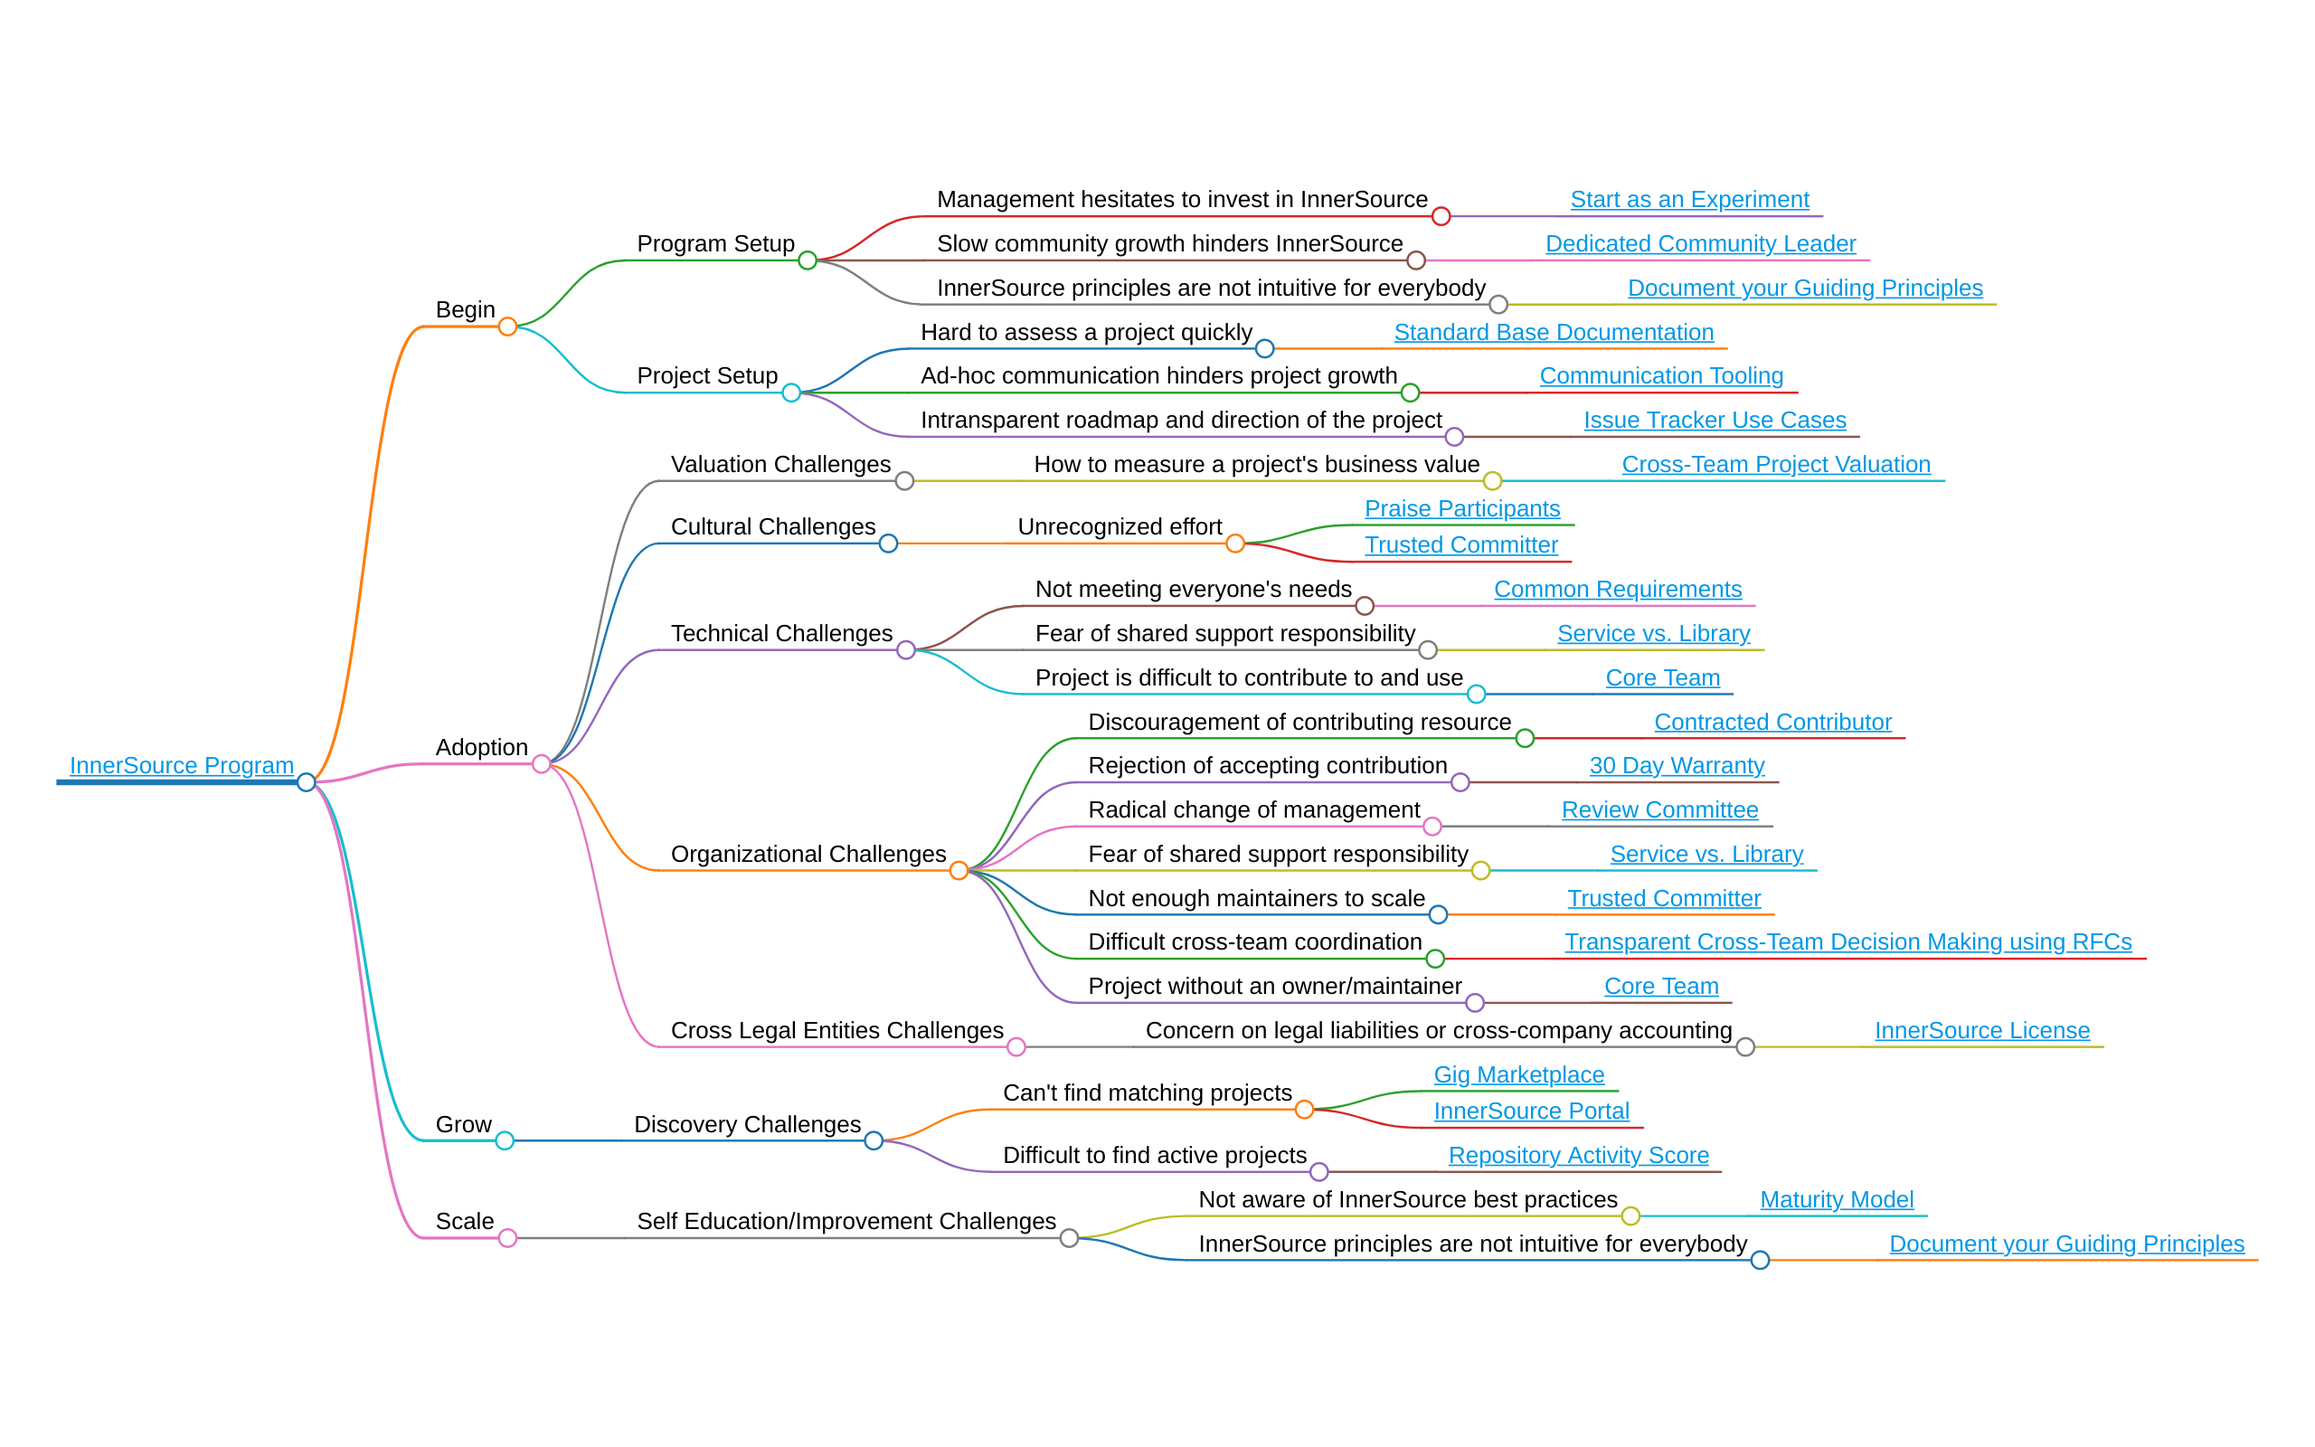
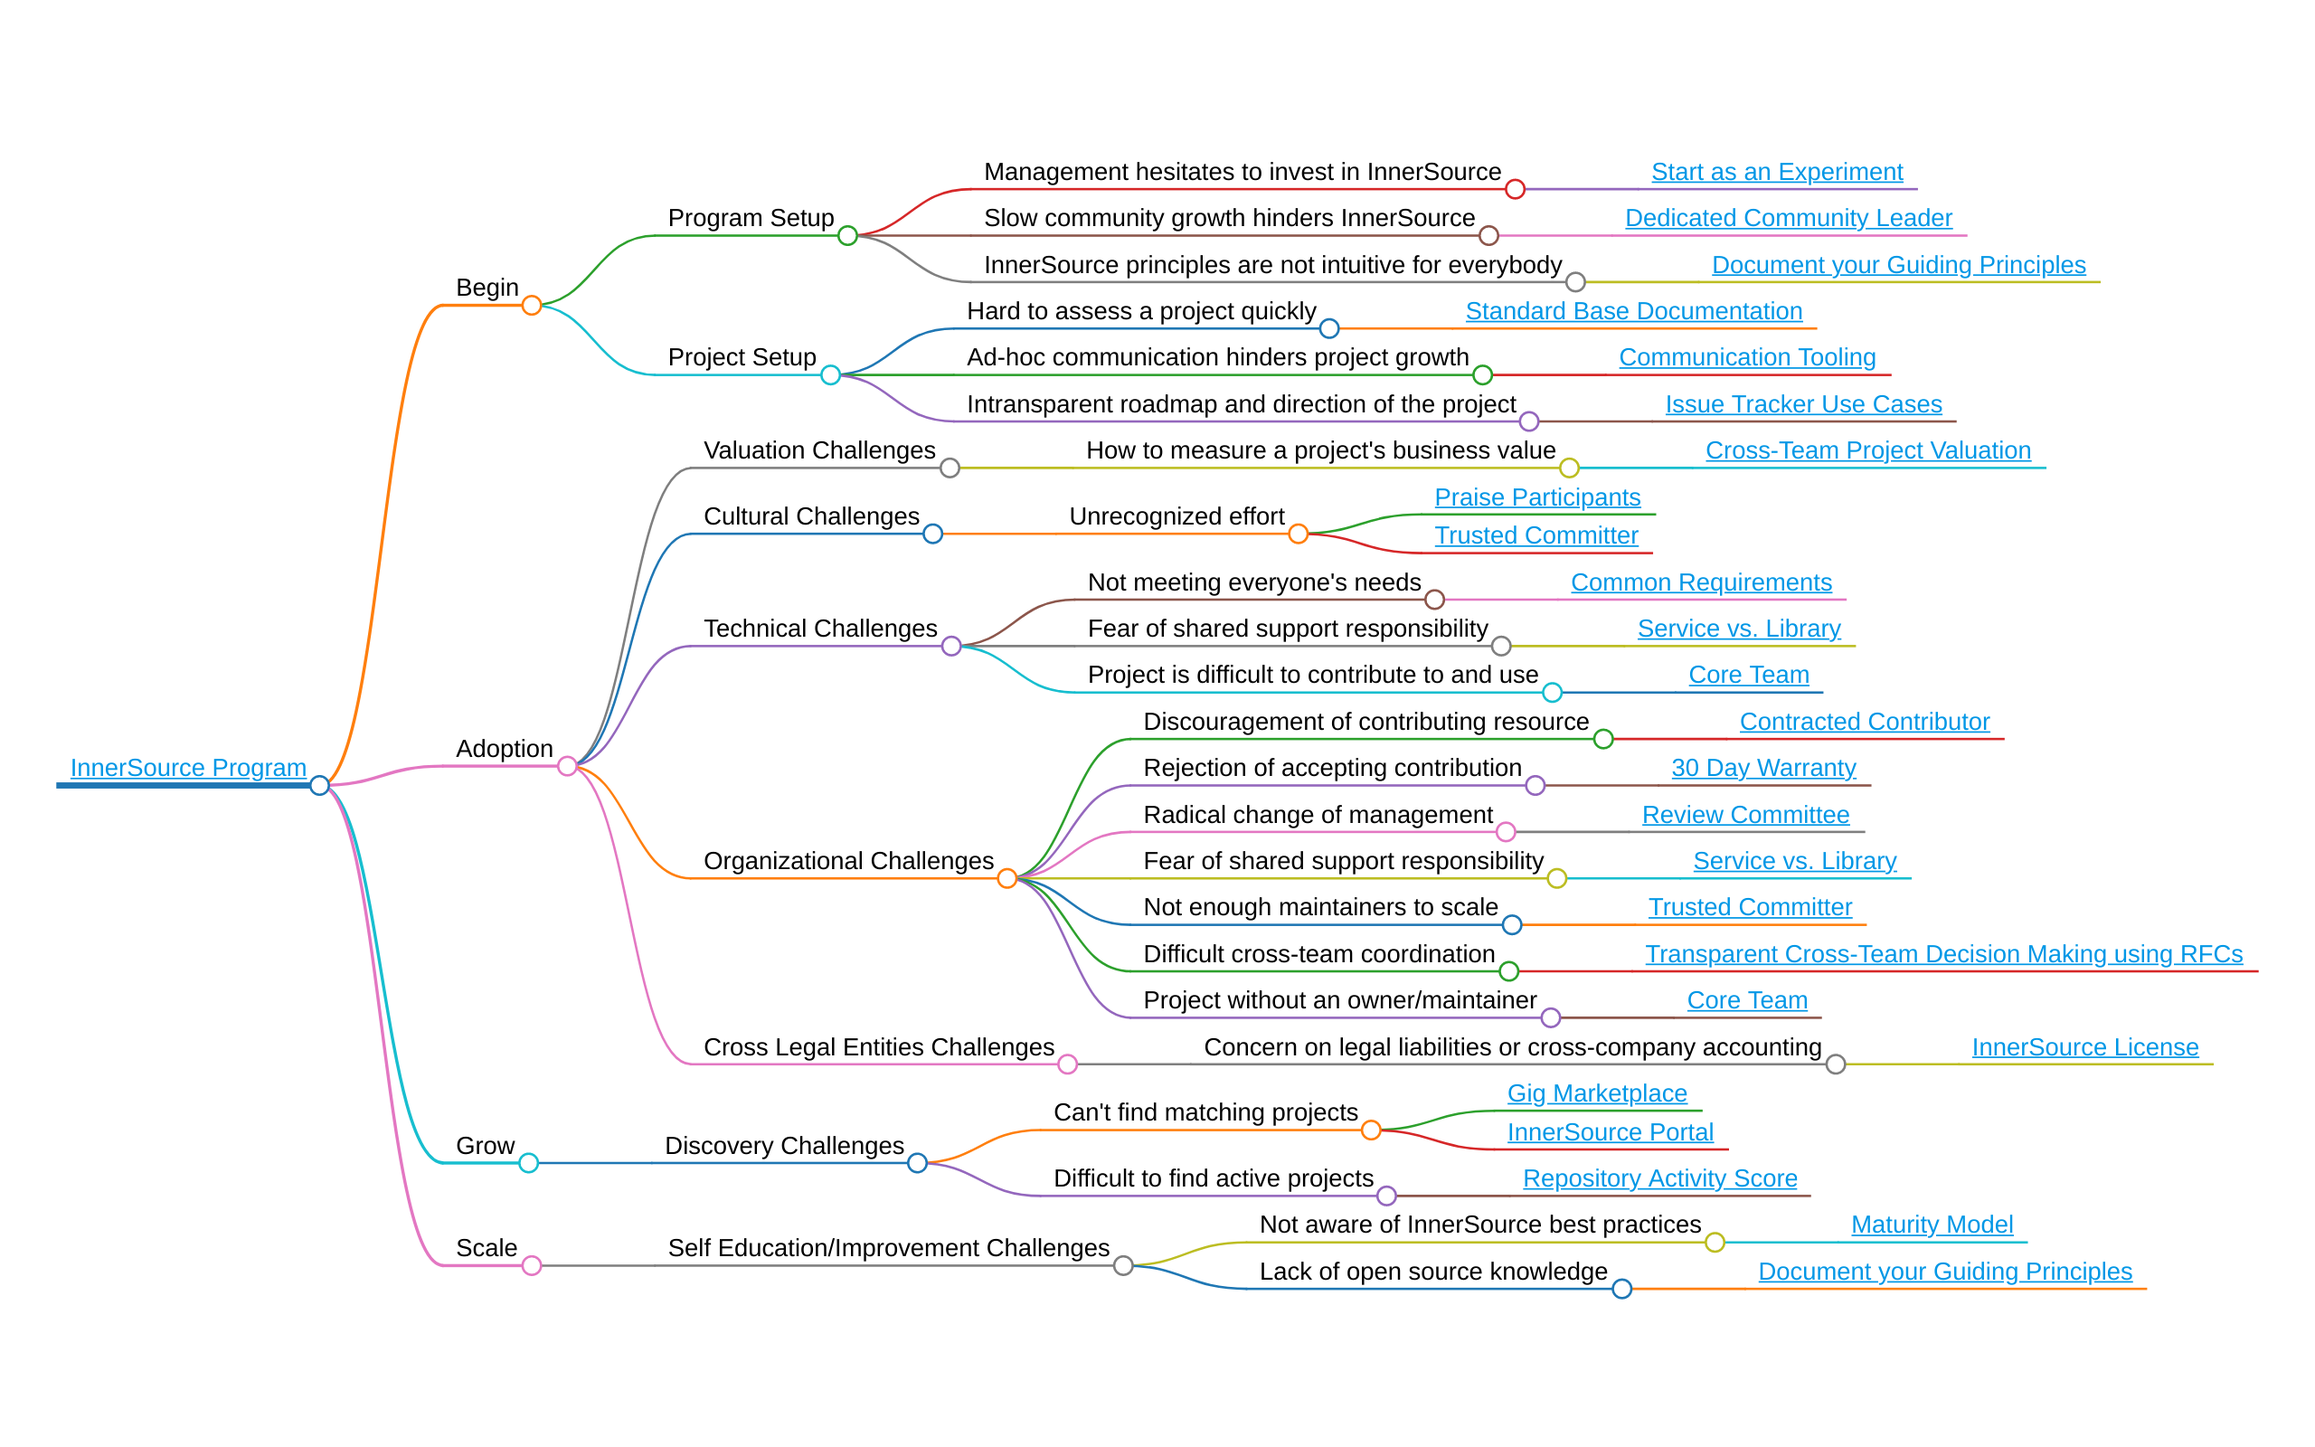
Re-creating markmap and screenshot

Changed region(s): [[0.1562, 0.0938, 0.9688, 0.9062], [0.0312, 0.5, 0.1562, 0.625], [0.1562, 0.1875, 0.25, 0.375]]

diff --git a/pattern-categorization/innersource-program-mind-map.html b/pattern-categorization/innersource-program-mind-map.html
@@ -25,6 +25,6 @@
           Markmap
         } = getMarkmap();
         window.mm = Markmap.create('svg#mindmap', getOptions == null ? void 0 : getOptions(), data);
-      })(() => window.markmap,null,{"t":"heading","d":1,"p":{"lines":[0,1]},"v":"<a href=\"https://patterns.innersourcecommons.org/toc\">InnerSource Program</a>","c":[{"t":"heading","d":2,"p":{"lines":[2,3]},"v":"Begin","c":[{"t":"heading","d":3,"p":{"lines":[4,5]},"v":"Program Setup","c":[{"t":"heading","d":4,"p":{"lines":[6,7]},"v":"Management hesitates to invest in InnerSource","c":[{"t":"heading","d":5,"p":{"lines":[8,9]},"v":"<a href=\"https://patterns.innersourcecommons.org/p/start-as-experiment\">Start as an Experiment</a>"}]},{"t":"heading","d":4,"p":{"lines":[10,11]},"v":"Slow community growth hinders InnerSource","c":[{"t":"heading","d":5,"p":{"lines":[12,13]},"v":"<a href=\"https://patterns.innersourcecommons.org/p/dedicated-community-leader\">Dedicated Community Leader</a>"}]},{"t":"heading","d":4,"p":{"lines":[14,15]},"v":"InnerSource principles are not intuitive for everybody","c":[{"t":"heading","d":5,"p":{"lines":[16,17]},"v":"<a href=\"https://patterns.innersourcecommons.org/p/document-your-guiding-principles\">Document your Guiding Principles</a>"}]}]},{"t":"heading","d":3,"p":{"lines":[18,19]},"v":"Project Setup","c":[{"t":"heading","d":4,"p":{"lines":[20,21]},"v":"Hard to assess a project quickly","c":[{"t":"heading","d":5,"p":{"lines":[22,23]},"v":"<a href=\"https://patterns.innersourcecommons.org/p/base-documentation\">Standard Base Documentation</a>"}]},{"t":"heading","d":4,"p":{"lines":[24,25]},"v":"Ad-hoc communication hinders project growth","c":[{"t":"heading","d":5,"p":{"lines":[26,27]},"v":"<a href=\"https://patterns.innersourcecommons.org/p/communication-tooling\">Communication Tooling</a>"}]},{"t":"heading","d":4,"p":{"lines":[28,29]},"v":"Intransparent roadmap and direction of the project","c":[{"t":"heading","d":5,"p":{"lines":[30,31]},"v":"<a href=\"https://patterns.innersourcecommons.org/p/issue-tracker\">Issue Tracker Use Cases</a>"}]}]}]},{"t":"heading","d":2,"p":{"lines":[32,33]},"v":"Adoption","c":[{"t":"heading","d":3,"p":{"lines":[34,35]},"v":"Valuation Challenges","c":[{"t":"heading","d":4,"p":{"lines":[36,37]},"v":"How to measure a project's business value","c":[{"t":"heading","d":5,"p":{"lines":[38,39]},"v":"<a href=\"https://patterns.innersourcecommons.org/p/crossteam-project-valuation\">Cross-Team Project Valuation</a>"}]}]},{"t":"heading","d":3,"p":{"lines":[40,41]},"v":"Cultural Challenges","c":[{"t":"heading","d":4,"p":{"lines":[42,43]},"v":"Unrecognized effort","c":[{"t":"heading","d":5,"p":{"lines":[44,45]},"v":"<a href=\"https://patterns.innersourcecommons.org/p/praise-participants\">Praise Participants</a>"},{"t":"heading","d":5,"p":{"lines":[46,47]},"v":"<a href=\"https://patterns.innersourcecommons.org/p/trusted-committer\">Trusted Committer</a>"}]}]},{"t":"heading","d":3,"p":{"lines":[48,49]},"v":"Technical Challenges","c":[{"t":"heading","d":4,"p":{"lines":[50,51]},"v":"Not meeting everyone's needs","c":[{"t":"heading","d":5,"p":{"lines":[52,53]},"v":"<a href=\"https://patterns.innersourcecommons.org/p/common-requirements\">Common Requirements</a>"}]},{"t":"heading","d":4,"p":{"lines":[54,55]},"v":"Fear of shared support responsibility","c":[{"t":"heading","d":5,"p":{"lines":[56,57]},"v":"<a href=\"https://patterns.innersourcecommons.org/p/service-vs-library\">Service vs. Library</a>"}]},{"t":"heading","d":4,"p":{"lines":[58,59]},"v":"Project is difficult to contribute to and use","c":[{"t":"heading","d":5,"p":{"lines":[60,61]},"v":"<a href=\"https://patterns.innersourcecommons.org/p/core-team\">Core Team</a>"}]}]},{"t":"heading","d":3,"p":{"lines":[62,63]},"v":"Organizational Challenges","c":[{"t":"heading","d":4,"p":{"lines":[64,65]},"v":"Discouragement of contributing resource","c":[{"t":"heading","d":5,"p":{"lines":[66,67]},"v":"<a href=\"https://patterns.innersourcecommons.org/p/contracted-contributor\">Contracted Contributor</a>"}]},{"t":"heading","d":4,"p":{"lines":[68,69]},"v":"Rejection of accepting contribution","c":[{"t":"heading","d":5,"p":{"lines":[70,71]},"v":"<a href=\"https://patterns.innersourcecommons.org/p/30-day-warranty\">30 Day Warranty</a>"}]},{"t":"heading","d":4,"p":{"lines":[72,73]},"v":"Radical change of management","c":[{"t":"heading","d":5,"p":{"lines":[74,75]},"v":"<a href=\"https://patterns.innersourcecommons.org/p/review-committee\">Review Committee</a>"}]},{"t":"heading","d":4,"p":{"lines":[76,77]},"v":"Fear of shared support responsibility","c":[{"t":"heading","d":5,"p":{"lines":[78,79]},"v":"<a href=\"https://patterns.innersourcecommons.org/p/service-vs-library\">Service vs. Library</a>"}]},{"t":"heading","d":4,"p":{"lines":[80,81]},"v":"Not enough maintainers to scale","c":[{"t":"heading","d":5,"p":{"lines":[82,83]},"v":"<a href=\"https://patterns.innersourcecommons.org/p/trusted-committer\">Trusted Committer</a>"}]},{"t":"heading","d":4,"p":{"lines":[84,85]},"v":"Difficult cross-team coordination","c":[{"t":"heading","d":5,"p":{"lines":[86,87]},"v":"<a href=\"https://patterns.innersourcecommons.org/p/transparent-cross-team-decision-making-using-rfcs\">Transparent Cross-Team Decision Making using RFCs</a>"}]},{"t":"heading","d":4,"p":{"lines":[88,89]},"v":"Project without an owner/maintainer","c":[{"t":"heading","d":5,"p":{"lines":[90,91]},"v":"<a href=\"https://patterns.innersourcecommons.org/p/core-team\">Core Team</a>"}]}]},{"t":"heading","d":3,"p":{"lines":[92,93]},"v":"Cross Legal Entities Challenges","c":[{"t":"heading","d":4,"p":{"lines":[94,95]},"v":"Concern on legal liabilities or cross-company accounting","c":[{"t":"heading","d":5,"p":{"lines":[96,97]},"v":"<a href=\"https://patterns.innersourcecommons.org/p/innersource-license\">InnerSource License</a>"}]}]}]},{"t":"heading","d":2,"p":{"lines":[98,99]},"v":"Grow","c":[{"t":"heading","d":3,"p":{"lines":[100,101]},"v":"Discovery Challenges","c":[{"t":"heading","d":4,"p":{"lines":[102,103]},"v":"Can't find matching projects","c":[{"t":"heading","d":5,"p":{"lines":[104,105]},"v":"<a href=\"https://patterns.innersourcecommons.org/p/gig-marketplace\">Gig Marketplace</a>"},{"t":"heading","d":5,"p":{"lines":[106,107]},"v":"<a href=\"https://patterns.innersourcecommons.org/p/innersource-portal\">InnerSource Portal</a>"}]},{"t":"heading","d":4,"p":{"lines":[108,109]},"v":"Difficult to find active projects","c":[{"t":"heading","d":5,"p":{"lines":[110,111]},"v":"<a href=\"https://patterns.innersourcecommons.org/p/repository-activity-score\">Repository Activity Score</a>"}]}]}]},{"t":"heading","d":2,"p":{"lines":[112,113]},"v":"Scale","c":[{"t":"heading","d":3,"p":{"lines":[114,115]},"v":"Self Education/Improvement Challenges","c":[{"t":"heading","d":4,"p":{"lines":[116,117]},"v":"Not aware of InnerSource best practices","c":[{"t":"heading","d":5,"p":{"lines":[118,119]},"v":"<a href=\"https://patterns.innersourcecommons.org/p/maturity-model\">Maturity Model</a>"}]},{"t":"heading","d":4,"p":{"lines":[120,121]},"v":"InnerSource principles are not intuitive for everybody","c":[{"t":"heading","d":5,"p":{"lines":[122,123]},"v":"<a href=\"https://patterns.innersourcecommons.org/p/document-your-guiding-principles\">Document your Guiding Principles</a>"}]}]}]}]})</script>
+      })(() => window.markmap,null,{"t":"heading","d":1,"p":{"lines":[0,1]},"v":"<a href=\"https://patterns.innersourcecommons.org/toc\">InnerSource Program</a>","c":[{"t":"heading","d":2,"p":{"lines":[2,3]},"v":"Begin","c":[{"t":"heading","d":3,"p":{"lines":[4,5]},"v":"Program Setup","c":[{"t":"heading","d":4,"p":{"lines":[6,7]},"v":"Management hesitates to invest in InnerSource","c":[{"t":"heading","d":5,"p":{"lines":[8,9]},"v":"<a href=\"https://patterns.innersourcecommons.org/p/start-as-experiment\">Start as an Experiment</a>"}]},{"t":"heading","d":4,"p":{"lines":[10,11]},"v":"Slow community growth hinders InnerSource","c":[{"t":"heading","d":5,"p":{"lines":[12,13]},"v":"<a href=\"https://patterns.innersourcecommons.org/p/dedicated-community-leader\">Dedicated Community Leader</a>"}]},{"t":"heading","d":4,"p":{"lines":[14,15]},"v":"InnerSource principles are not intuitive for everybody","c":[{"t":"heading","d":5,"p":{"lines":[16,17]},"v":"<a href=\"https://patterns.innersourcecommons.org/p/document-your-guiding-principles\">Document your Guiding Principles</a>"}]}]},{"t":"heading","d":3,"p":{"lines":[18,19]},"v":"Project Setup","c":[{"t":"heading","d":4,"p":{"lines":[20,21]},"v":"Hard to assess a project quickly","c":[{"t":"heading","d":5,"p":{"lines":[22,23]},"v":"<a href=\"https://patterns.innersourcecommons.org/p/base-documentation\">Standard Base Documentation</a>"}]},{"t":"heading","d":4,"p":{"lines":[24,25]},"v":"Ad-hoc communication hinders project growth","c":[{"t":"heading","d":5,"p":{"lines":[26,27]},"v":"<a href=\"https://patterns.innersourcecommons.org/p/communication-tooling\">Communication Tooling</a>"}]},{"t":"heading","d":4,"p":{"lines":[28,29]},"v":"Intransparent roadmap and direction of the project","c":[{"t":"heading","d":5,"p":{"lines":[30,31]},"v":"<a href=\"https://patterns.innersourcecommons.org/p/issue-tracker\">Issue Tracker Use Cases</a>"}]}]}]},{"t":"heading","d":2,"p":{"lines":[32,33]},"v":"Adoption","c":[{"t":"heading","d":3,"p":{"lines":[34,35]},"v":"Valuation Challenges","c":[{"t":"heading","d":4,"p":{"lines":[36,37]},"v":"How to measure a project's business value","c":[{"t":"heading","d":5,"p":{"lines":[38,39]},"v":"<a href=\"https://patterns.innersourcecommons.org/p/crossteam-project-valuation\">Cross-Team Project Valuation</a>"}]}]},{"t":"heading","d":3,"p":{"lines":[40,41]},"v":"Cultural Challenges","c":[{"t":"heading","d":4,"p":{"lines":[42,43]},"v":"Unrecognized effort","c":[{"t":"heading","d":5,"p":{"lines":[44,45]},"v":"<a href=\"https://patterns.innersourcecommons.org/p/praise-participants\">Praise Participants</a>"},{"t":"heading","d":5,"p":{"lines":[46,47]},"v":"<a href=\"https://patterns.innersourcecommons.org/p/trusted-committer\">Trusted Committer</a>"}]}]},{"t":"heading","d":3,"p":{"lines":[48,49]},"v":"Technical Challenges","c":[{"t":"heading","d":4,"p":{"lines":[50,51]},"v":"Not meeting everyone's needs","c":[{"t":"heading","d":5,"p":{"lines":[52,53]},"v":"<a href=\"https://patterns.innersourcecommons.org/p/common-requirements\">Common Requirements</a>"}]},{"t":"heading","d":4,"p":{"lines":[54,55]},"v":"Fear of shared support responsibility","c":[{"t":"heading","d":5,"p":{"lines":[56,57]},"v":"<a href=\"https://patterns.innersourcecommons.org/p/service-vs-library\">Service vs. Library</a>"}]},{"t":"heading","d":4,"p":{"lines":[58,59]},"v":"Project is difficult to contribute to and use","c":[{"t":"heading","d":5,"p":{"lines":[60,61]},"v":"<a href=\"https://patterns.innersourcecommons.org/p/core-team\">Core Team</a>"}]}]},{"t":"heading","d":3,"p":{"lines":[62,63]},"v":"Organizational Challenges","c":[{"t":"heading","d":4,"p":{"lines":[64,65]},"v":"Discouragement of contributing resource","c":[{"t":"heading","d":5,"p":{"lines":[66,67]},"v":"<a href=\"https://patterns.innersourcecommons.org/p/contracted-contributor\">Contracted Contributor</a>"}]},{"t":"heading","d":4,"p":{"lines":[68,69]},"v":"Rejection of accepting contribution","c":[{"t":"heading","d":5,"p":{"lines":[70,71]},"v":"<a href=\"https://patterns.innersourcecommons.org/p/30-day-warranty\">30 Day Warranty</a>"}]},{"t":"heading","d":4,"p":{"lines":[72,73]},"v":"Radical change of management","c":[{"t":"heading","d":5,"p":{"lines":[74,75]},"v":"<a href=\"https://patterns.innersourcecommons.org/p/review-committee\">Review Committee</a>"}]},{"t":"heading","d":4,"p":{"lines":[76,77]},"v":"Fear of shared support responsibility","c":[{"t":"heading","d":5,"p":{"lines":[78,79]},"v":"<a href=\"https://patterns.innersourcecommons.org/p/service-vs-library\">Service vs. Library</a>"}]},{"t":"heading","d":4,"p":{"lines":[80,81]},"v":"Not enough maintainers to scale","c":[{"t":"heading","d":5,"p":{"lines":[82,83]},"v":"<a href=\"https://patterns.innersourcecommons.org/p/trusted-committer\">Trusted Committer</a>"}]},{"t":"heading","d":4,"p":{"lines":[84,85]},"v":"Difficult cross-team coordination","c":[{"t":"heading","d":5,"p":{"lines":[86,87]},"v":"<a href=\"https://patterns.innersourcecommons.org/p/transparent-cross-team-decision-making-using-rfcs\">Transparent Cross-Team Decision Making using RFCs</a>"}]},{"t":"heading","d":4,"p":{"lines":[88,89]},"v":"Project without an owner/maintainer","c":[{"t":"heading","d":5,"p":{"lines":[90,91]},"v":"<a href=\"https://patterns.innersourcecommons.org/p/core-team\">Core Team</a>"}]}]},{"t":"heading","d":3,"p":{"lines":[92,93]},"v":"Cross Legal Entities Challenges","c":[{"t":"heading","d":4,"p":{"lines":[94,95]},"v":"Concern on legal liabilities or cross-company accounting","c":[{"t":"heading","d":5,"p":{"lines":[96,97]},"v":"<a href=\"https://patterns.innersourcecommons.org/p/innersource-license\">InnerSource License</a>"}]}]}]},{"t":"heading","d":2,"p":{"lines":[98,99]},"v":"Grow","c":[{"t":"heading","d":3,"p":{"lines":[100,101]},"v":"Discovery Challenges","c":[{"t":"heading","d":4,"p":{"lines":[102,103]},"v":"Can't find matching projects","c":[{"t":"heading","d":5,"p":{"lines":[104,105]},"v":"<a href=\"https://patterns.innersourcecommons.org/p/gig-marketplace\">Gig Marketplace</a>"},{"t":"heading","d":5,"p":{"lines":[106,107]},"v":"<a href=\"https://patterns.innersourcecommons.org/p/innersource-portal\">InnerSource Portal</a>"}]},{"t":"heading","d":4,"p":{"lines":[108,109]},"v":"Difficult to find active projects","c":[{"t":"heading","d":5,"p":{"lines":[110,111]},"v":"<a href=\"https://patterns.innersourcecommons.org/p/repository-activity-score\">Repository Activity Score</a>"}]}]}]},{"t":"heading","d":2,"p":{"lines":[112,113]},"v":"Scale","c":[{"t":"heading","d":3,"p":{"lines":[114,115]},"v":"Self Education/Improvement Challenges","c":[{"t":"heading","d":4,"p":{"lines":[116,117]},"v":"Not aware of InnerSource best practices","c":[{"t":"heading","d":5,"p":{"lines":[118,119]},"v":"<a href=\"https://patterns.innersourcecommons.org/p/maturity-model\">Maturity Model</a>"}]},{"t":"heading","d":4,"p":{"lines":[120,121]},"v":"Lack of open source knowledge","c":[{"t":"heading","d":5,"p":{"lines":[122,123]},"v":"<a href=\"https://patterns.innersourcecommons.org/p/document-your-guiding-principles\">Document your Guiding Principles</a>"}]}]}]}]})</script>
 </body>
 </html>
